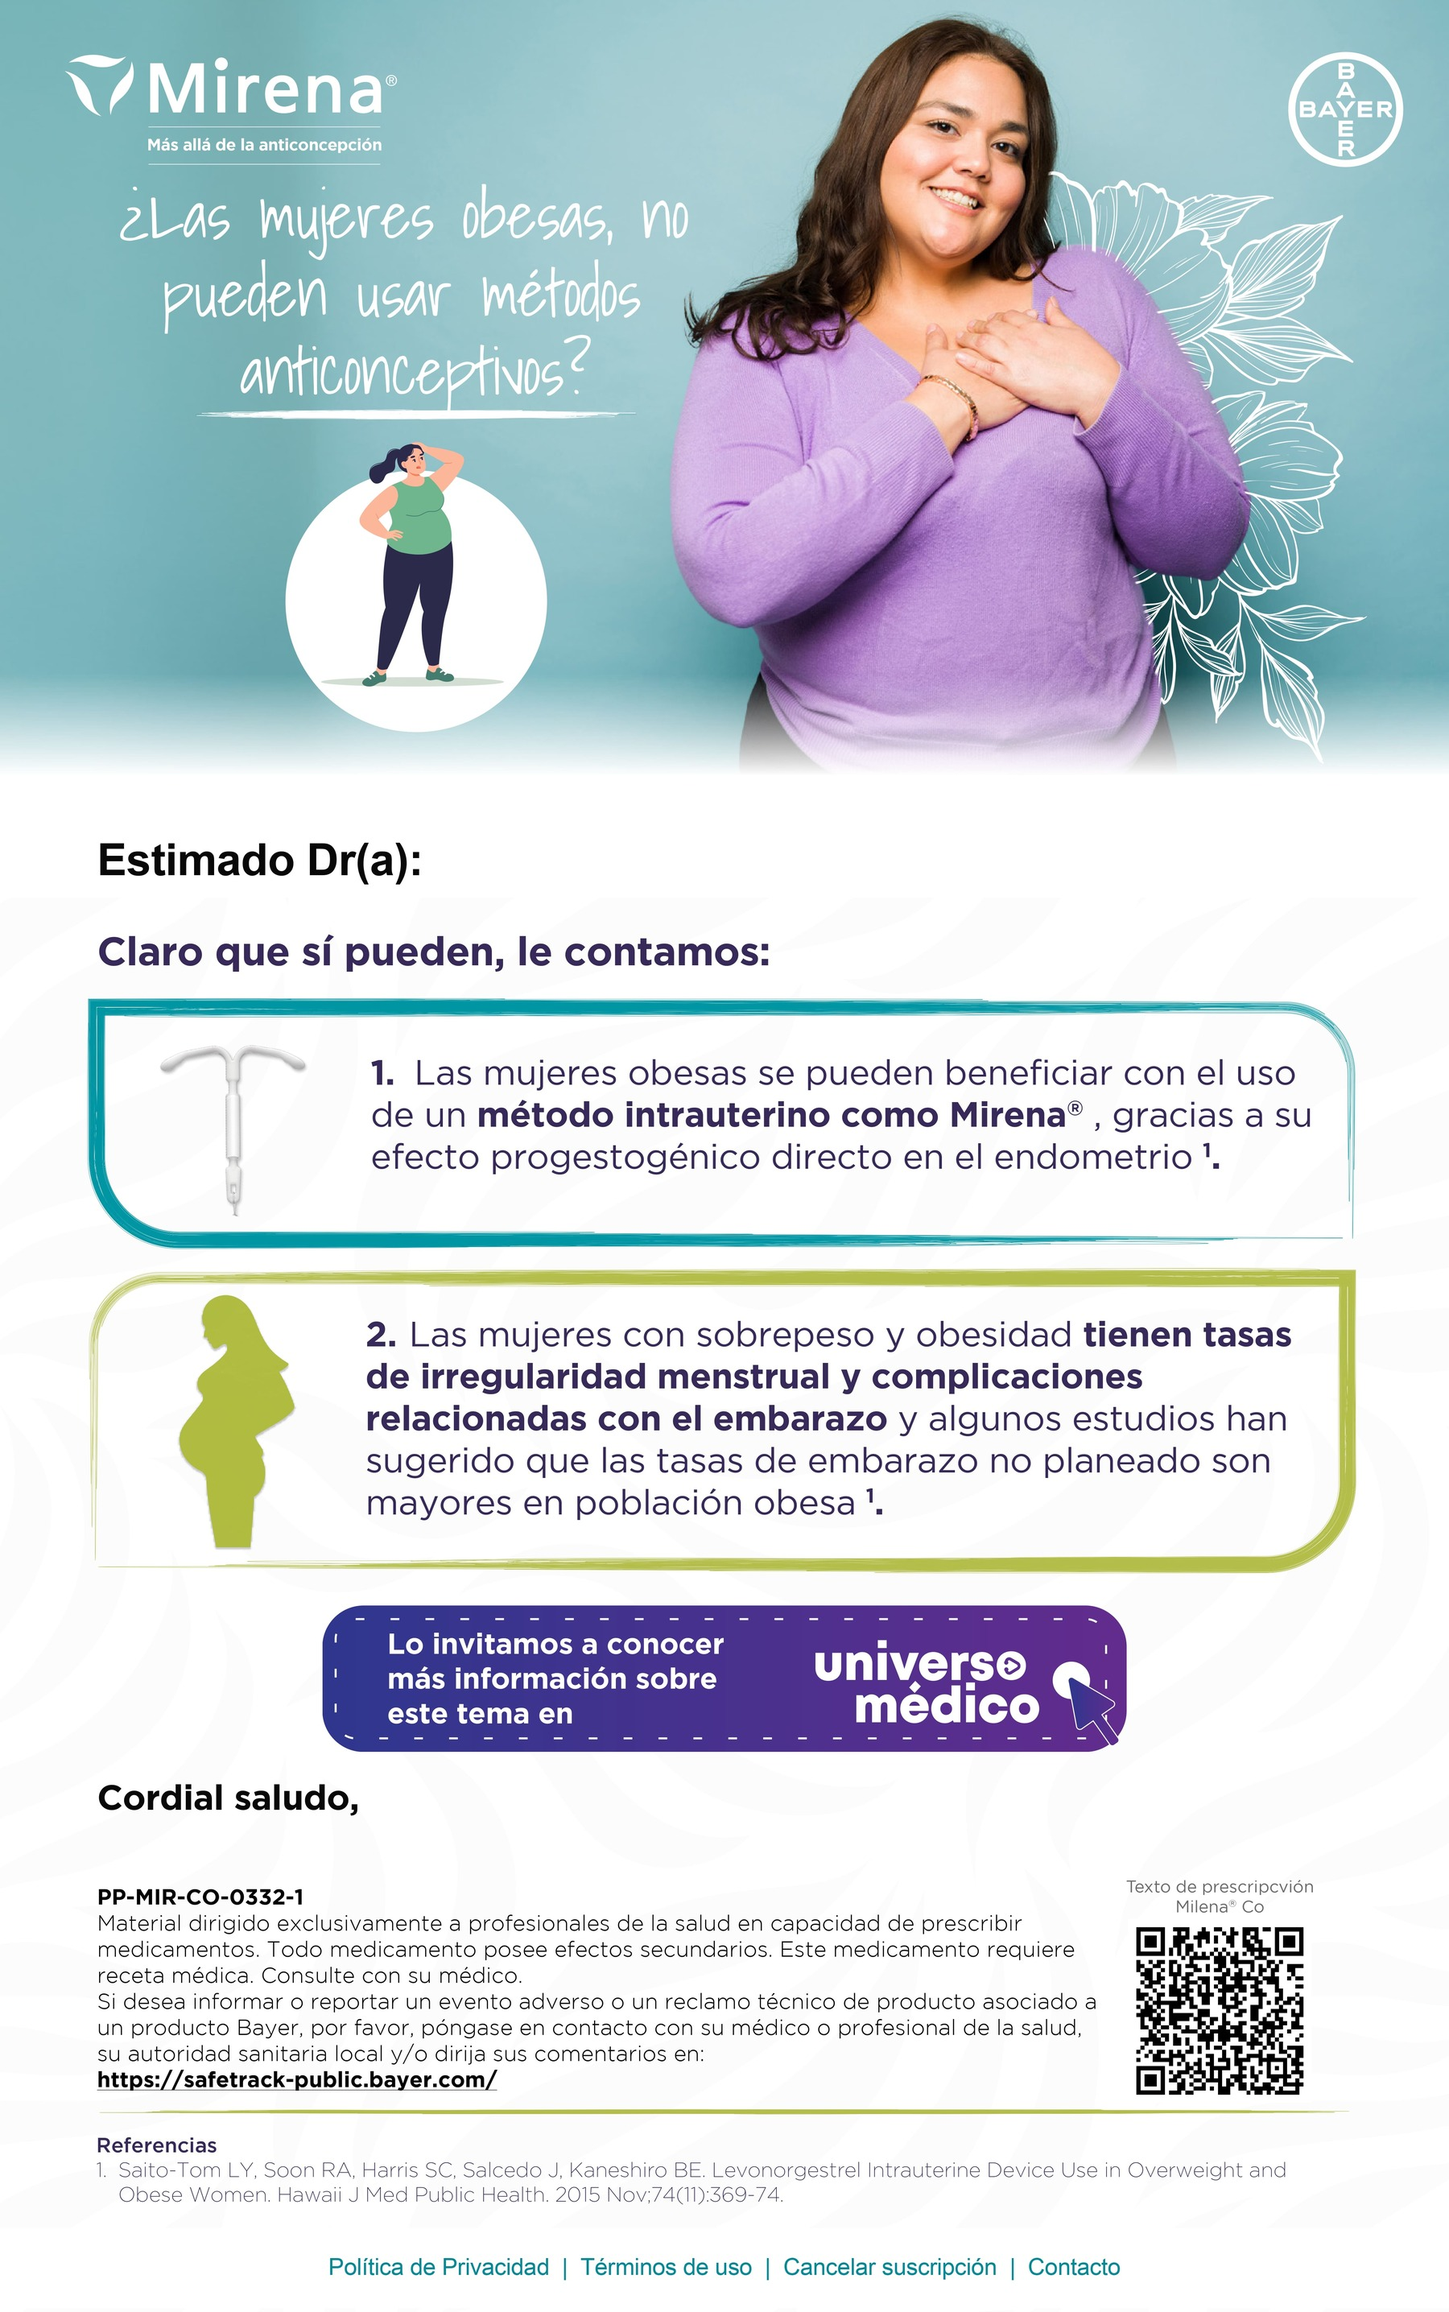
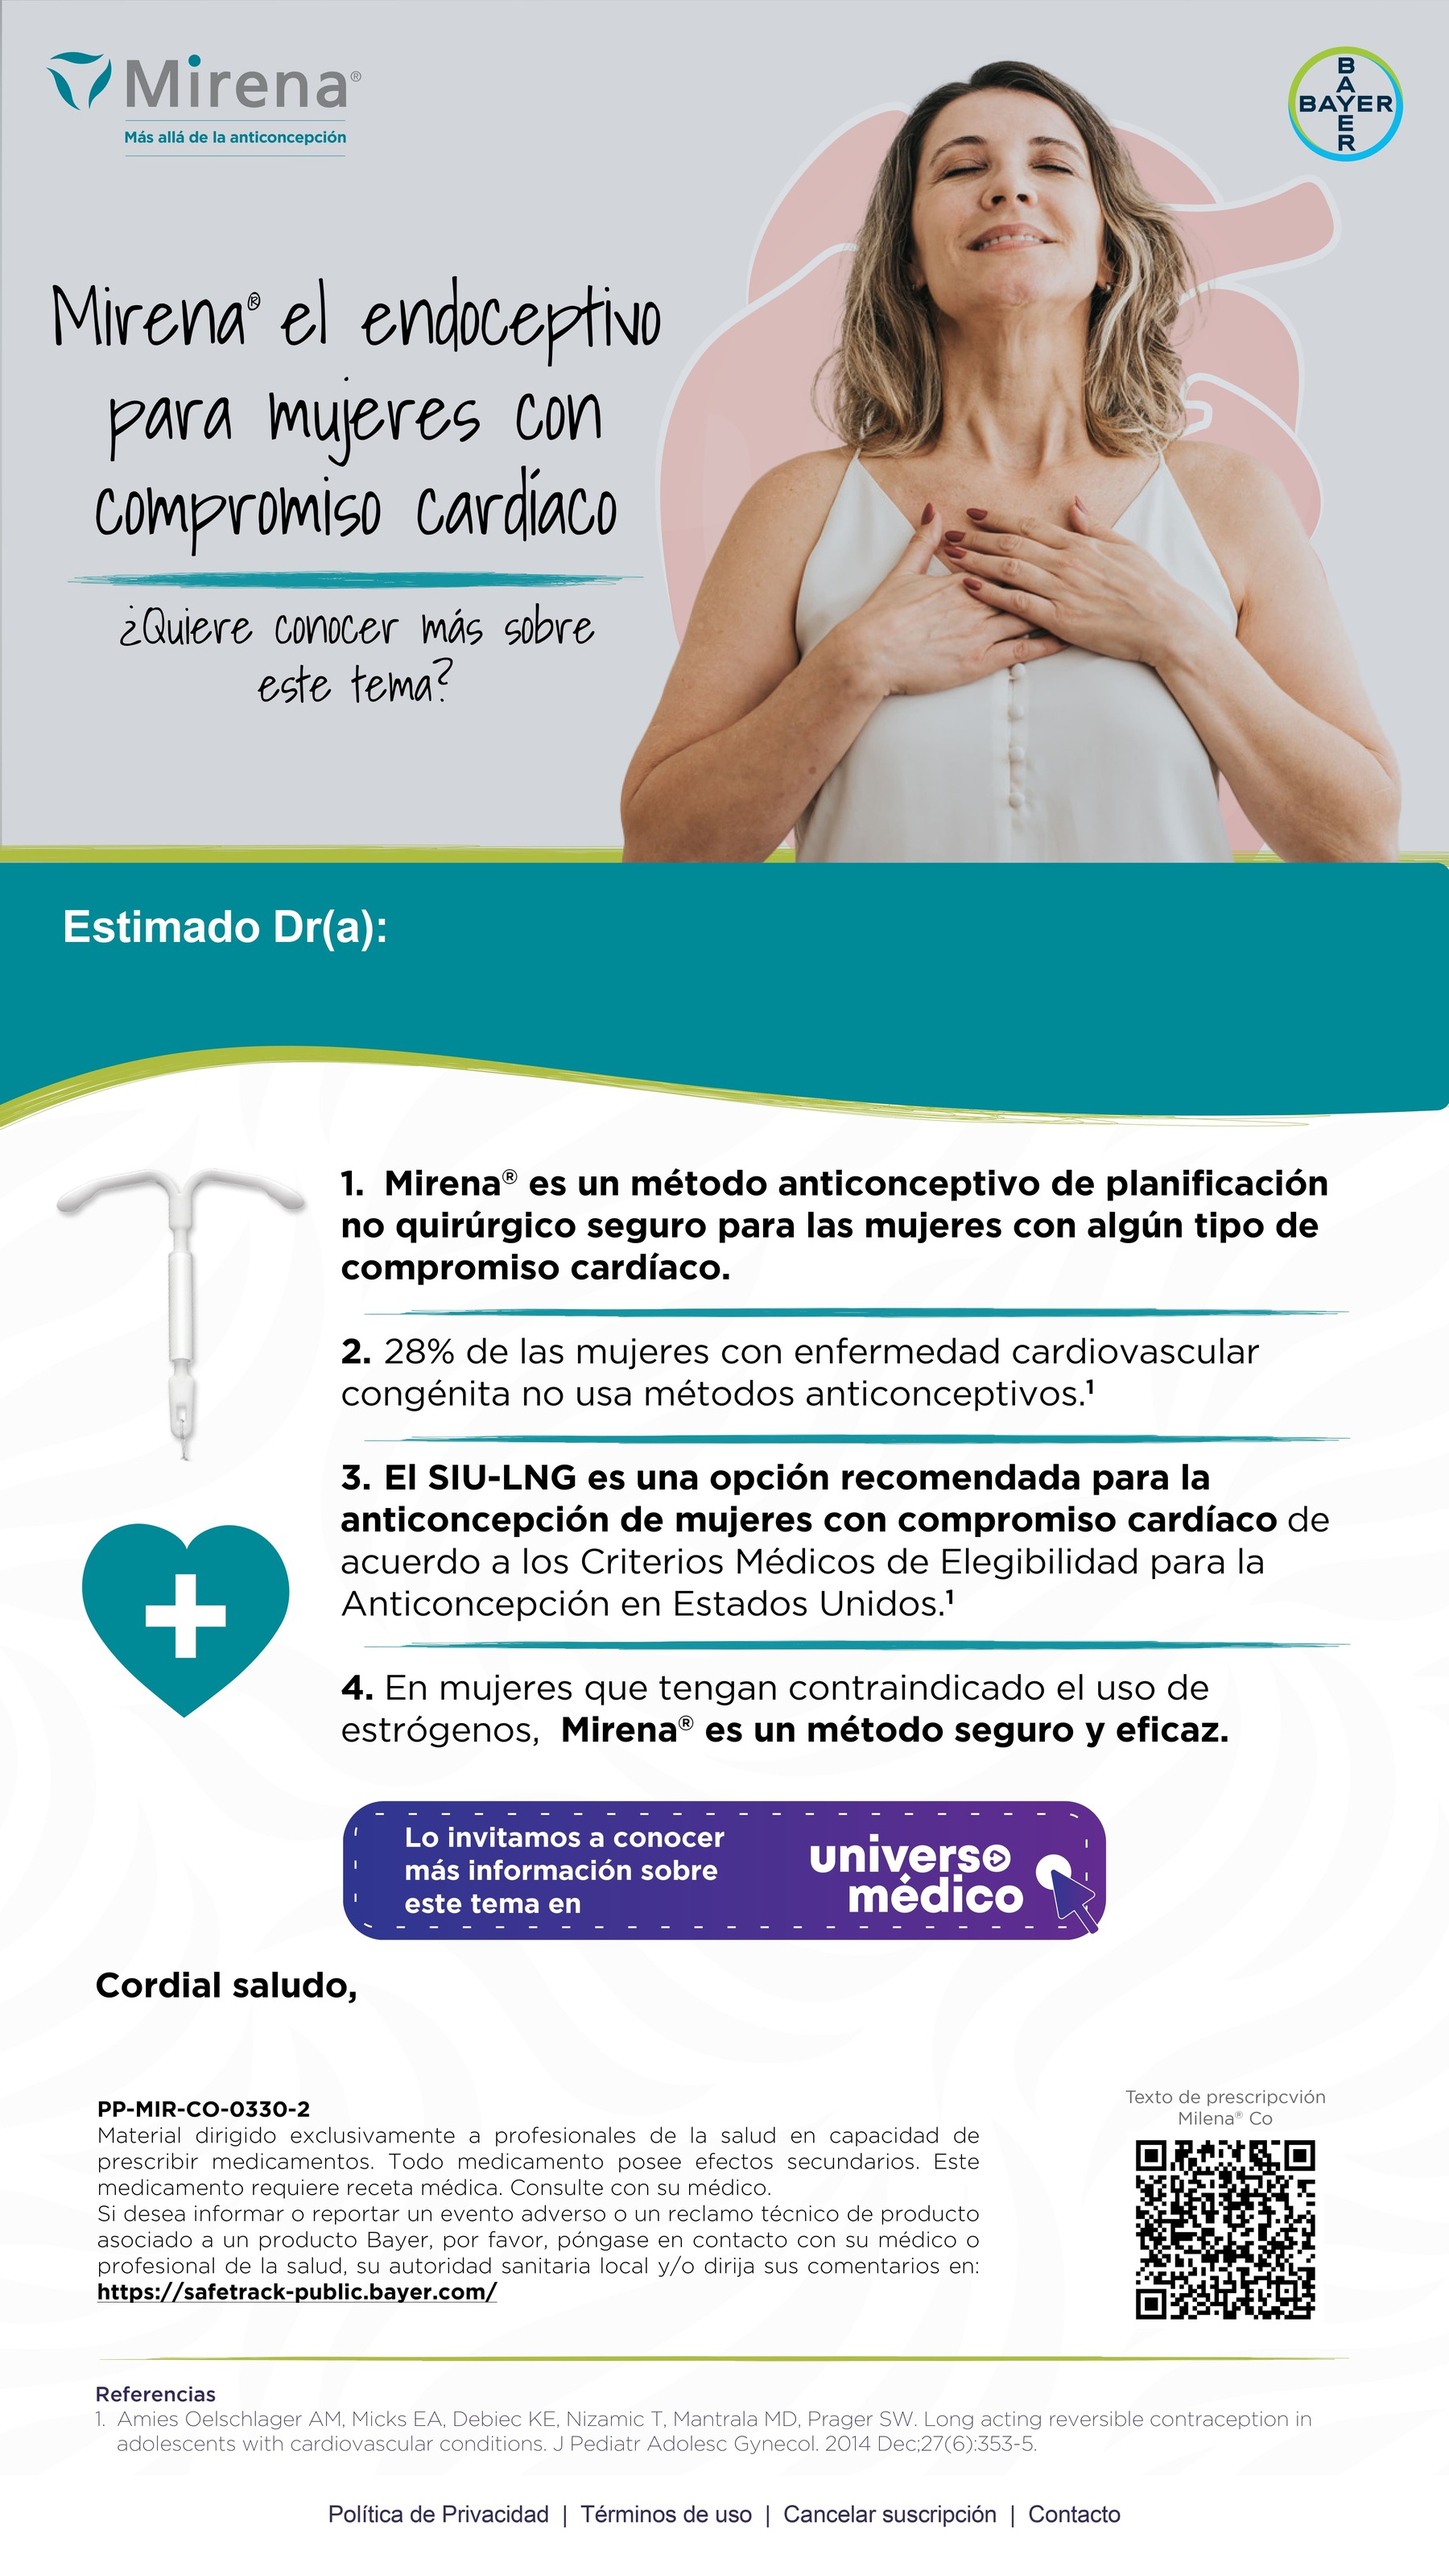
Falta Dr

diff --git a/index.html b/index.html
@@ -16,7 +16,7 @@
    <link rel="preconnect" href="https://fonts.gstatic.com" crossorigin>
    <link href="https://fonts.googleapis.com/css2?family=Nunito+Sans:opsz,wght@6..16,700&display=swap" rel="stylesheet">
 
-   <title>KAMS_AE Evidencia de la vida real GIDEON y OPTIMIS</title>
+   <title>MIREMA mas alla de la anticoncepcion</title>
    <style>
       *,
       *::before,
@@ -69,7 +69,7 @@
       
 
       .link_safe {
-         top: 1285px;
+         top: 1417px;
          left: 60px;
          width: 251px;
          height: 14px;
@@ -96,11 +96,11 @@
       }
 
       .Qr_CO{
-         top: 1197px;
+         top: 1329px;
          left: 706px;
-         width: 104px;
-         height: 104px;
-         border-radius: 3px;
+         width: 112px;
+         height: 113px;
+         border-radius: 3px;;
 }
 
       .Qr_EC{
@@ -123,7 +123,7 @@
          background-color: #013852;
          position: absolute;
          display: flex;
-         bottom: 23px;
+         bottom: 17px;
          padding: 8px 0px;
          width: 100%;
          height: auto;
@@ -151,9 +151,9 @@
       }
 
       .Link_video{
-         top: 997px;
-         left: 201px;
-         width: 499px;
+         top: 1117px;
+         left: 214px;
+         width: 474px;
          height: 90px;
          border-radius: 3px;
          color: transparent;
